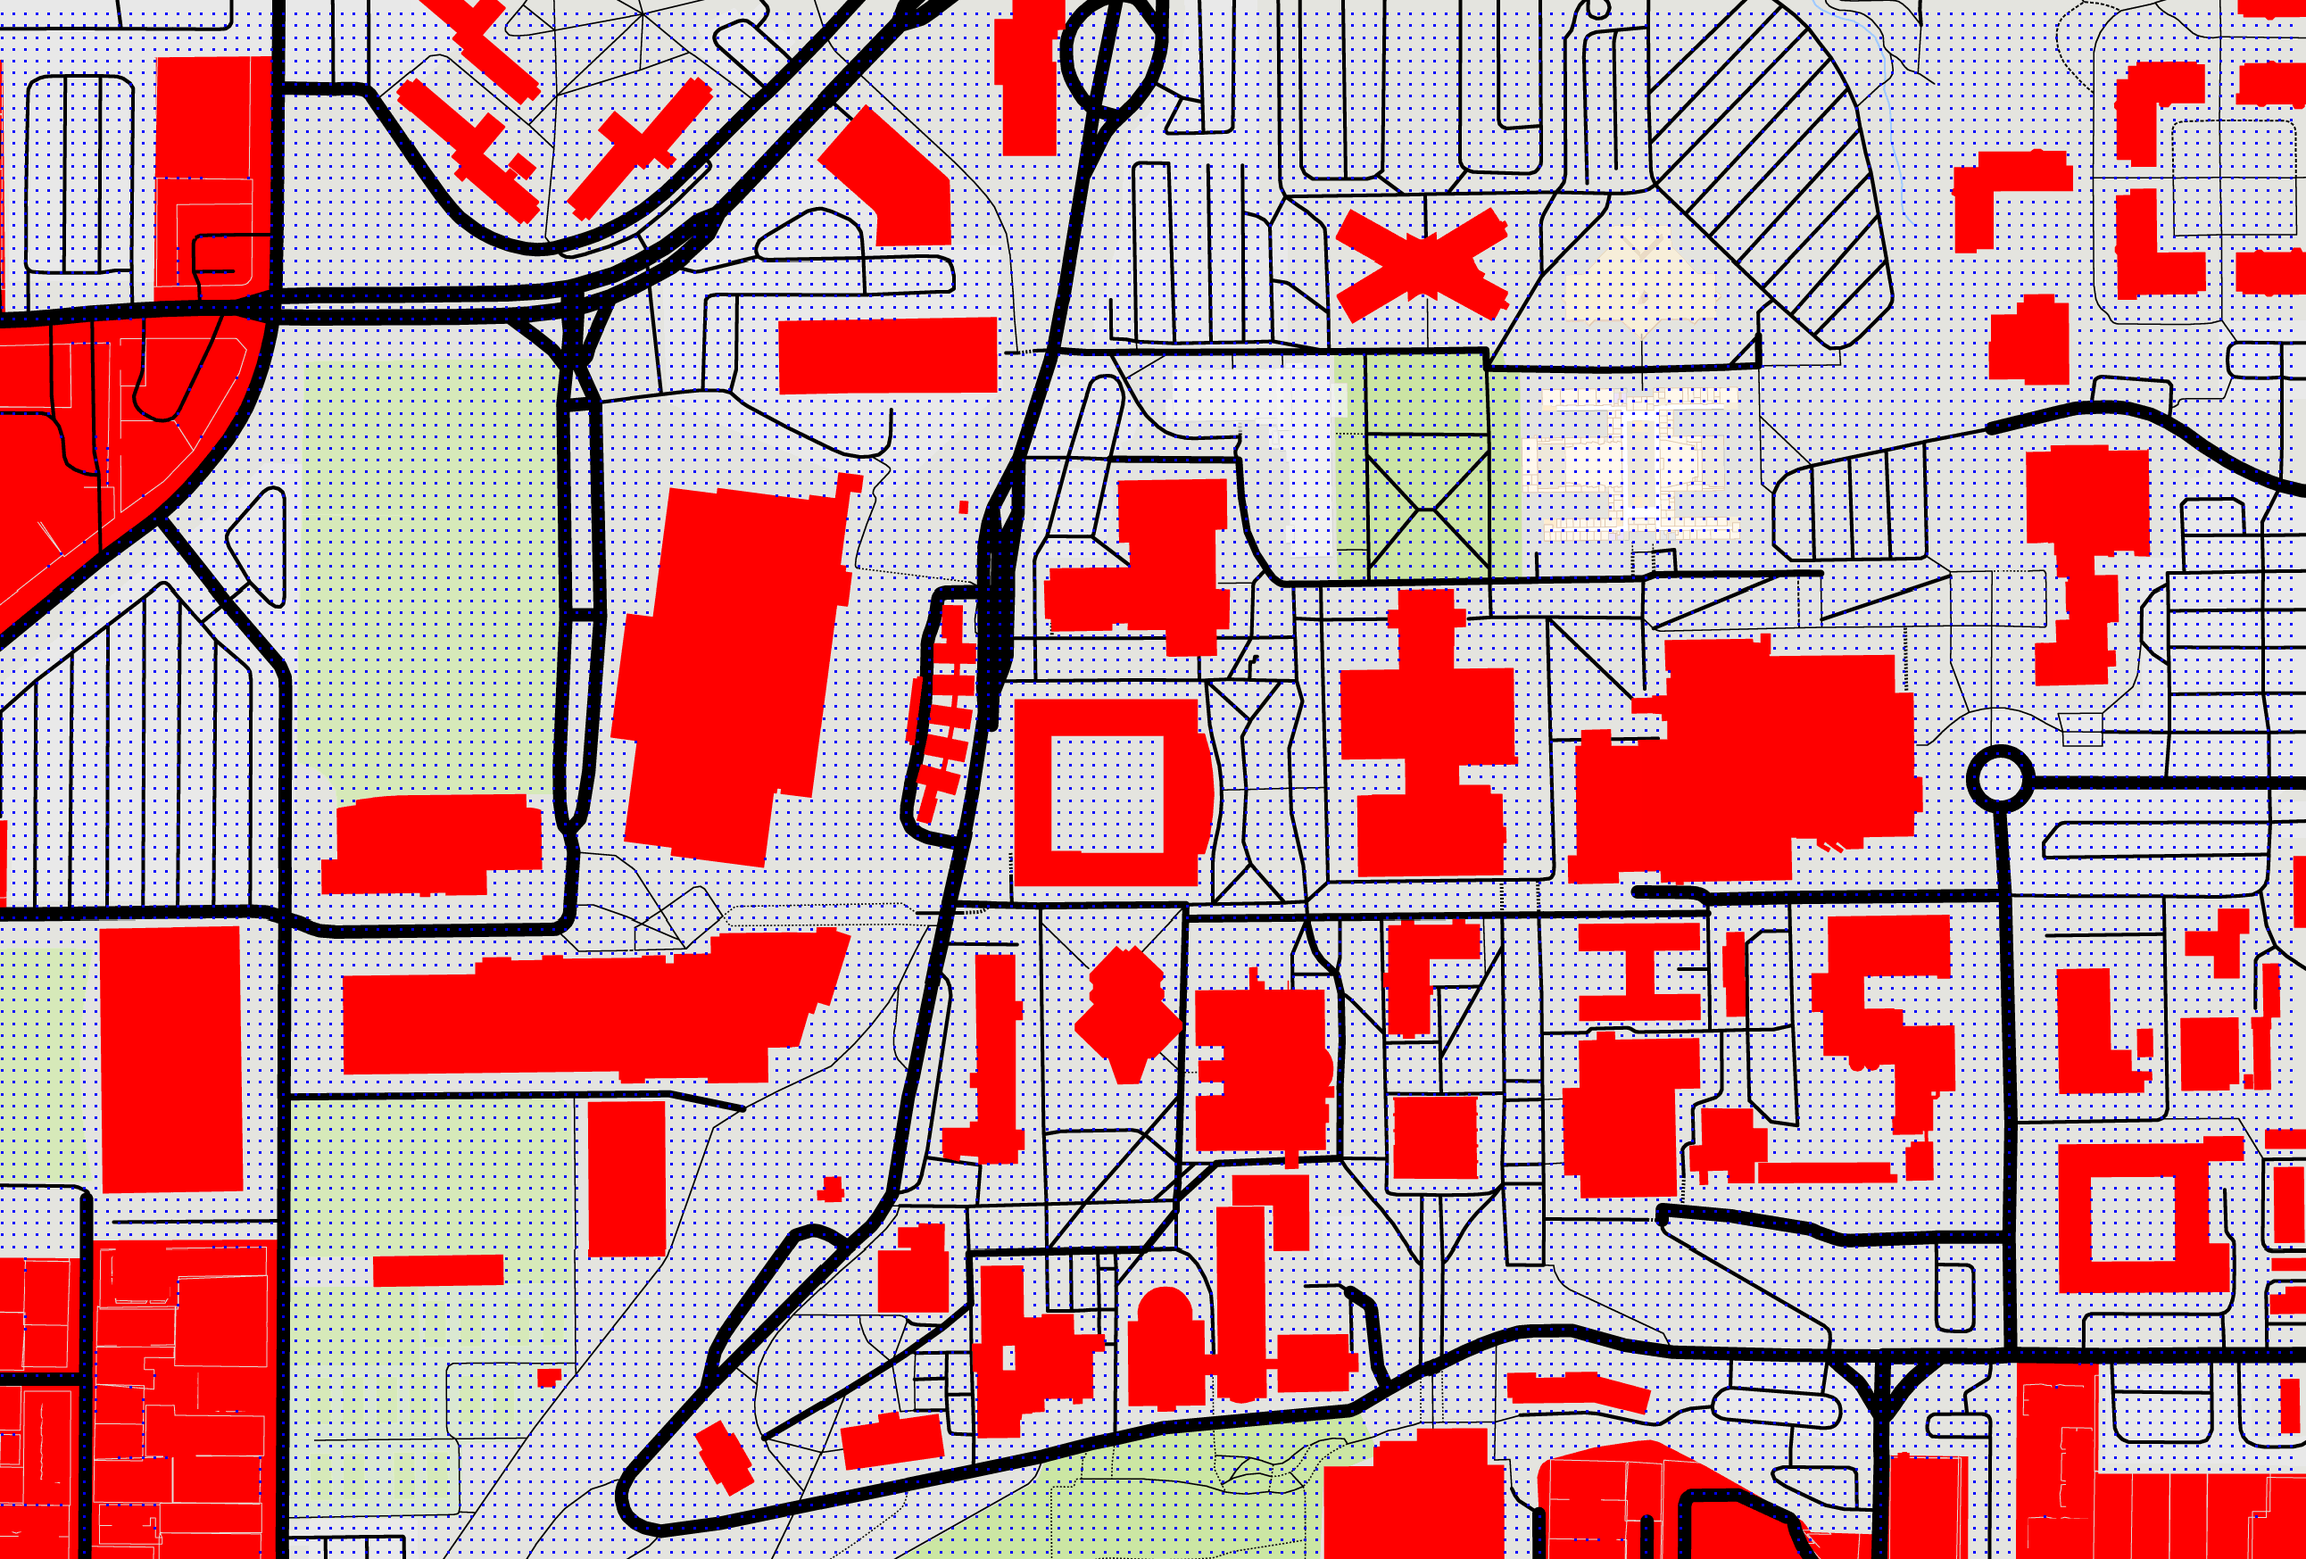
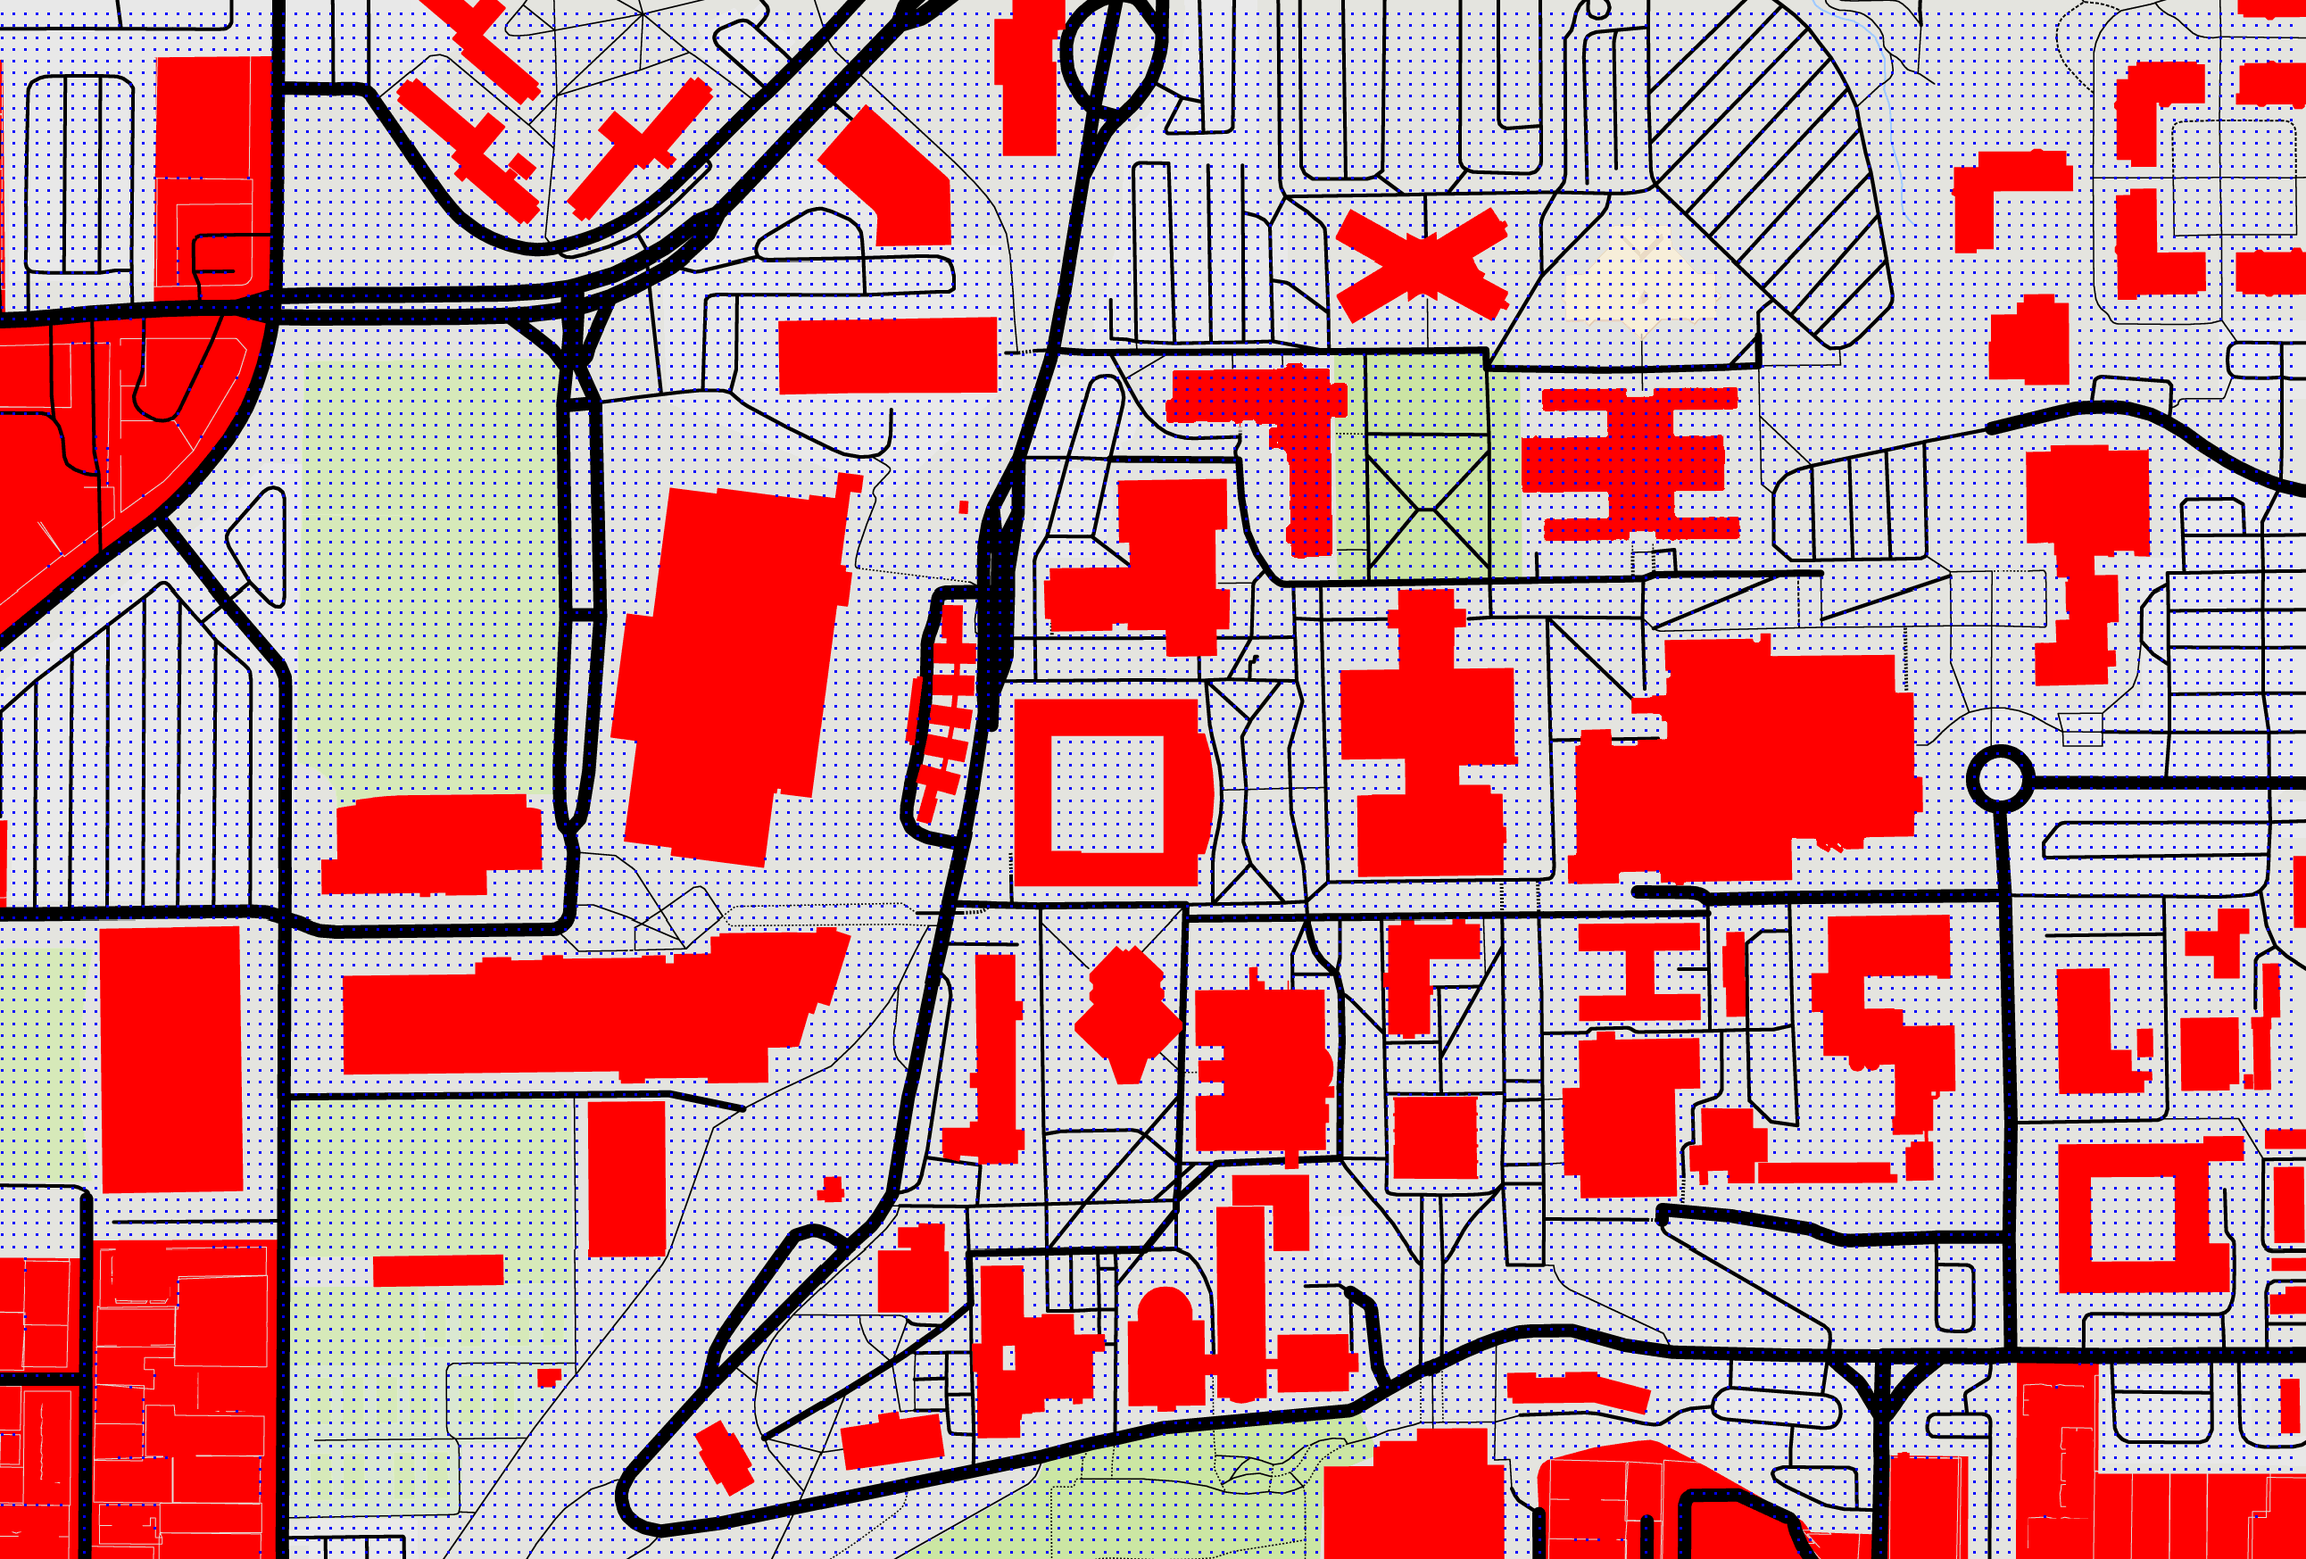
with integration test

Changed region(s): [[0.6502, 0.2473, 0.774, 0.3709], [0.4954, 0.2164, 0.5882, 0.3709]]

diff --git a/tests/server/IntegrationTests.java b/tests/server/IntegrationTests.java
@@ -4,13 +4,19 @@ import static org.junit.Assert.*;
 
 import java.awt.Color;
 import java.awt.image.BufferedImage;
+import java.io.FileInputStream;
 import java.util.List;
 
+import org.junit.BeforeClass;
 import org.junit.Test;
+
+import com.google.firebase.FirebaseApp;
+import com.google.firebase.FirebaseOptions;
 
 import generic.Config;
 import generic.Graph;
 import generic.GraphTools;
+import generic.ImageTools;
 import generic.Node;
 import generic.Tools;
 import generic.objects.Building;
@@ -20,6 +26,13 @@ import server.handlers.building.GetBuildingsHandler;
 
 public class IntegrationTests {
 
+	@BeforeClass
+	public static void setUpBeforeClass() throws Exception {
+		FirebaseOptions options = new FirebaseOptions.Builder().setServiceAccount(new FileInputStream("key.json"))
+				.setDatabaseUrl("https://walker-73119.firebaseio.com/").build();
+		FirebaseApp.initializeApp(options);
+	}
+	
 	@Test
 	public void createCampusGraphTest() {
 		//Generates the tiled image of the campus, creates the graph, and stores it in firebase
@@ -34,16 +47,21 @@ public class IntegrationTests {
 			img = APITools.GetTiledImage(southwest, northeast, zoom, false);
 
 		
+		List<Building> buildings = BuildingDAO.getAll();
+		img = ImageTools.fillBuildings(img, buildings, southwest, northeast);
+		
+		
 		List<Node> nodes = generic.GraphTools.GenerateUniformNodes(6, southwest, northeast);
 		GraphTools.RemoveBuildingNodes(nodes, img, southwest, northeast);
 		
-		BuildingDAO bDAO = new BuildingDAO();
-		List<Building> buildings = bDAO.getAll();
+
+		
+	//	Tools.WriteImage(img, "testImages/fillCampusTest.png");
 		
 		
 		Graph g = new Graph(null, null, nodes);
 		g.setLimitedDistancesFromNodes(img, southwest, northeast);
-		//g.generateLimitedMatrix(img, southwest, northeast);
+		
 		GraphTools.WriteGraphToImage(img, g, Color.BLUE, 1, southwest, northeast);
 		img = Tools.ClipLogo(img);
 		Tools.WriteImage(img, "testImages/fullCampus.png");
